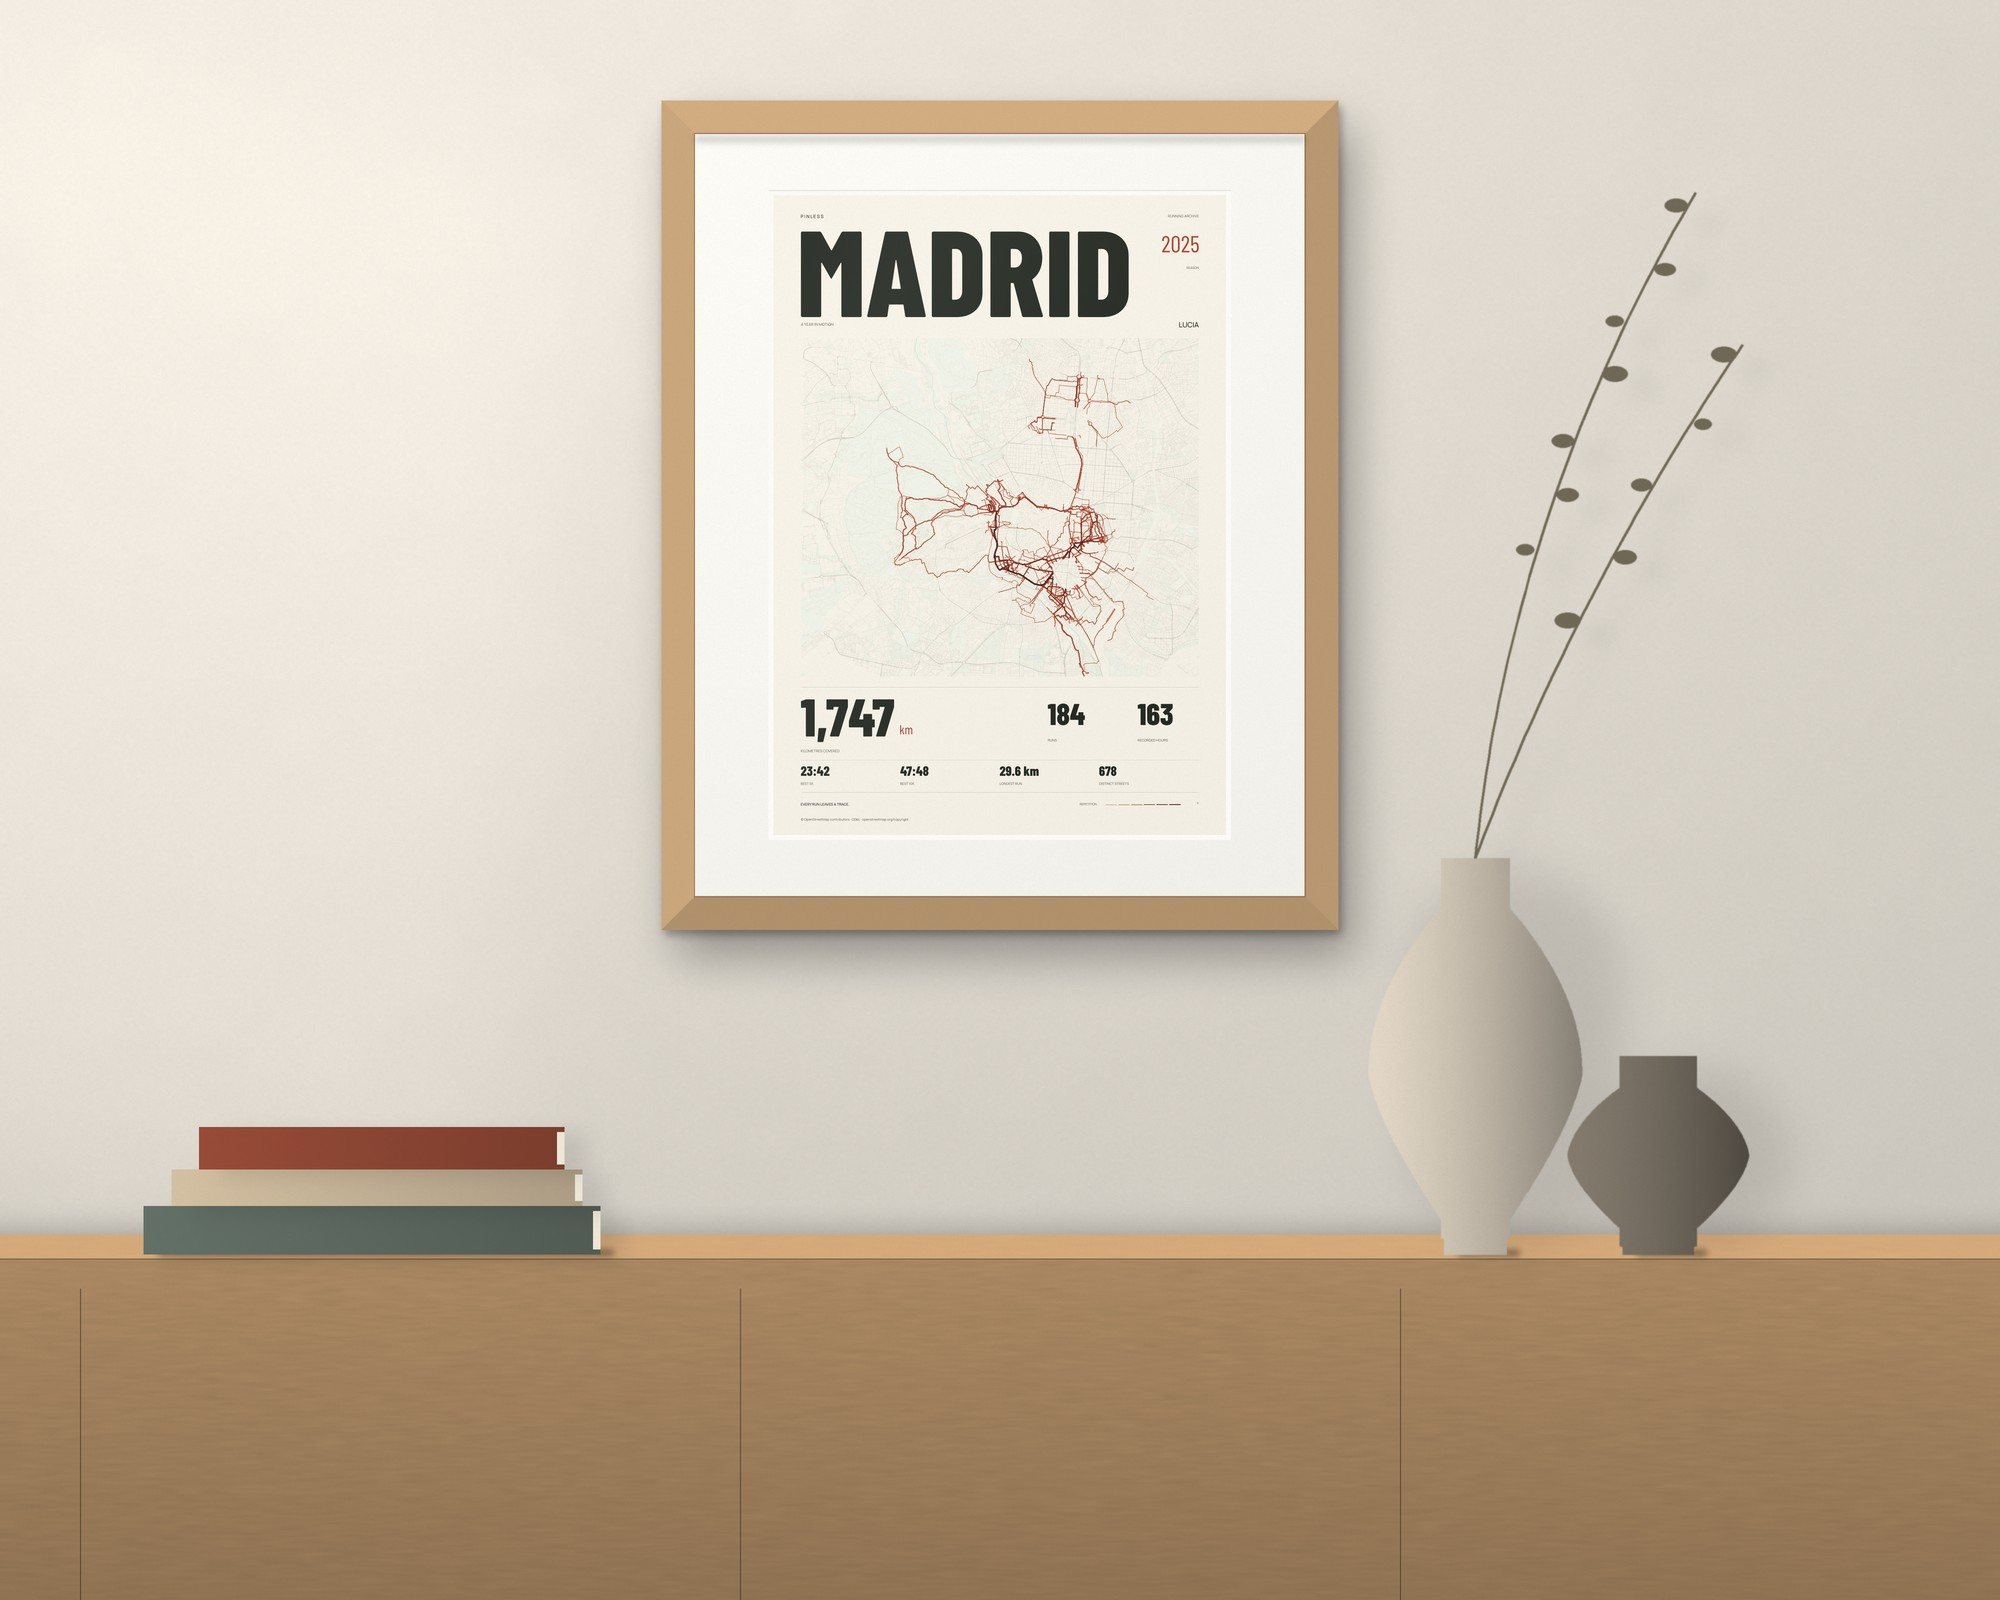
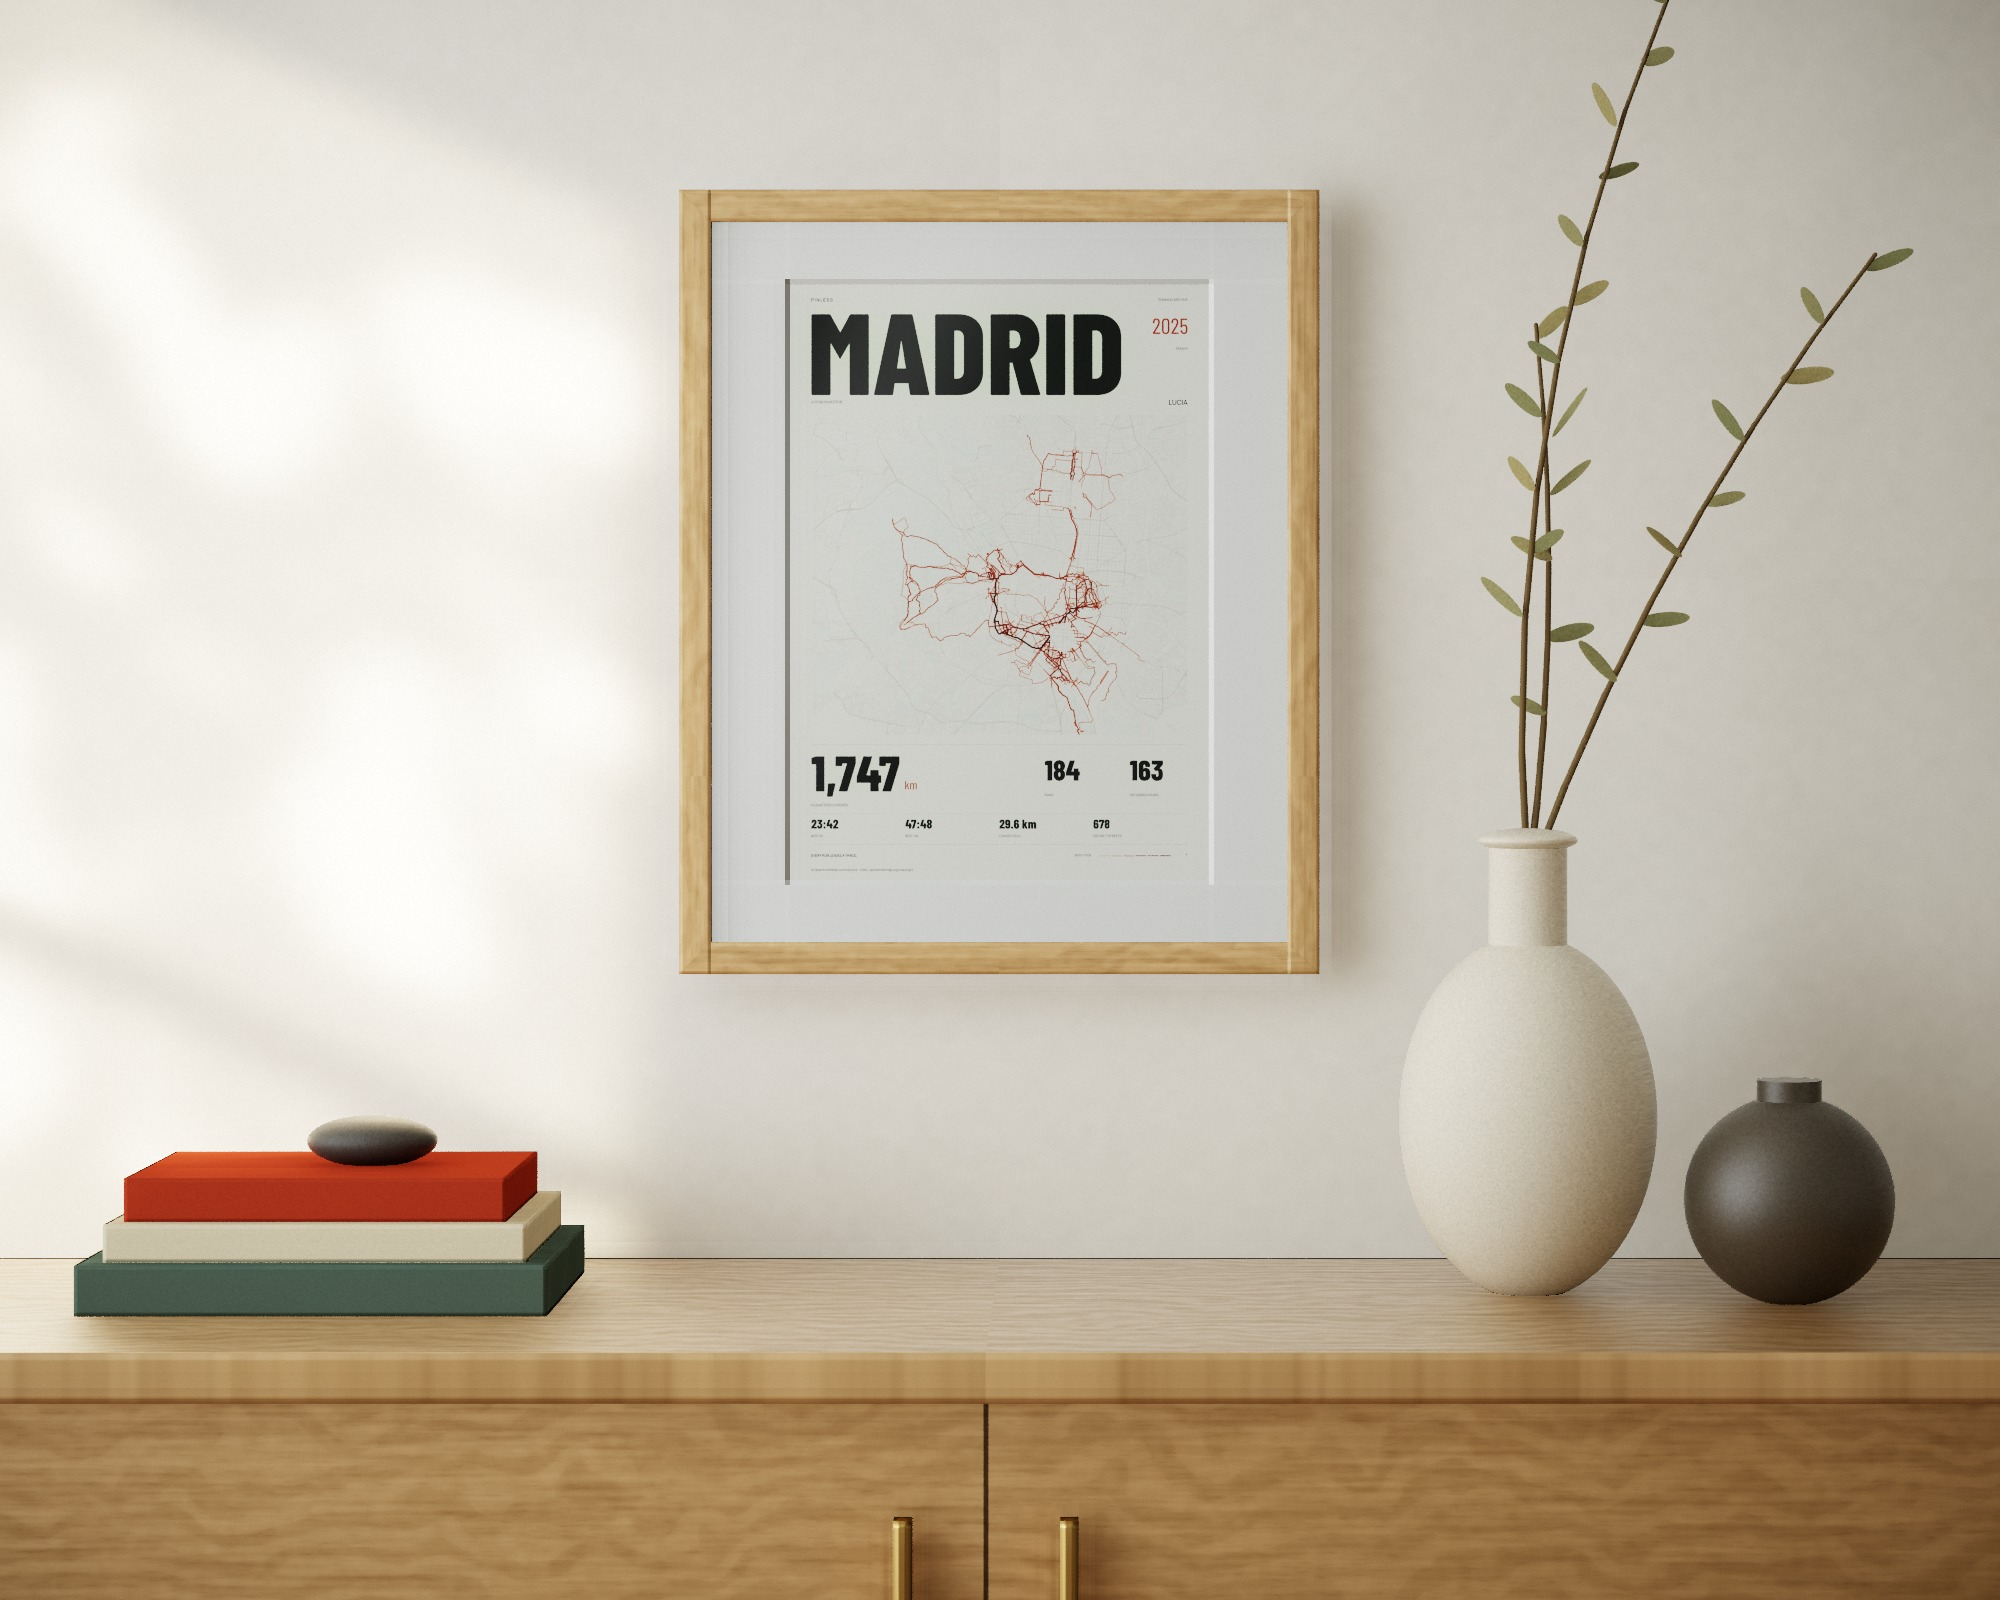
README: the trail prints redrawn, the walls rendered in a modelled room, a white frame
The five trail prints redrawn with the round halos, the summits named where they hide no other, the Tre Cime without its false glacier, Madeira with its relief and contours, and the Alps demo past the Lacs des Cheserys in the dark midnight style. Every wall mockup is rendered again with tools/mockup.py, in the same room: Madrid, the atlas and the poster for two in oak, the carbon poster and the race print in black, and in the trail section Penalara in oak beside Lac Blanc in a white frame. The captions say they are renders, not photographs.

diff --git a/README.md b/README.md
@@ -3,10 +3,10 @@
 **Your year of running as a print-ready poster of your city. From your Strava export, on your own computer, without showing where you live.**
 
 <p align="center">
-  <img src="docs/wall-huella.jpg" width="49%" alt="The warm paper poster of a year of runs in Madrid, framed in oak and hung above a sideboard">
+  <img src="docs/wall-huella.jpg" width="49%" alt="The warm paper poster of a year of runs in Madrid, framed in oak on a wall above an oak sideboard, books and two stoneware vases, in the dappled light of a window">
   <img src="docs/wall-carbon.jpg" width="49%" alt="The same poster in the dark carbon style, in a black frame">
 </p>
-<p align="center"><sub>A3 prints in standard 40x50 cm frames, drawn to scale (<code>tools/mockup.py</code>). Demo posters made from a synthetic runner (<code>tools/simulate_runner.py</code>), not from a real person.</sub></p>
+<p align="center"><sub>A3 prints in standard 40x50 cm frames, rendered to scale in a modelled room lit by a window (<code>tools/mockup.py</code>, a small path tracer), not photographs. Demo posters made from a synthetic runner (<code>tools/simulate_runner.py</code>), not from a real person.</sub></p>
 
 ```bash
 pip install https://github.com/Lostmanu/pinless/archive/refs/heads/main.zip
@@ -76,7 +76,7 @@ The line weight always grows with how often you ran a street; `--color-by` decid
 
 <p align="center">
   <img src="docs/atlas-huella.jpg" width="40%" alt="Atlas of six cities run in one year: Madrid, Lisbon, Paris, Rome, Valencia and Zurich">
-  <img src="docs/wall-atlas.jpg" width="58%" alt="The atlas framed in oak and hung above a sideboard">
+  <img src="docs/wall-atlas.jpg" width="58%" alt="The atlas framed in oak on a wall above an oak sideboard">
 </p>
 <p align="center"><sub>Demo atlas from the synthetic runner with trips (<code>tools/simulate_trips.py</code>); try it with <code>pinless demo/strava_export_atlas_demo.zip --layout atlas</code>.</sub></p>
 
@@ -90,7 +90,7 @@ One small map per city on the same print: the city where you ran most comes firs
 
 <p align="center">
   <img src="docs/race.jpg" width="40%" alt="Finisher print of a half marathon in Madrid with its elevation profile, time, pace and kilometre splits">
-  <img src="docs/wall-race.jpg" width="58%" alt="The race print in a black frame hung above a sideboard">
+  <img src="docs/wall-race.jpg" width="58%" alt="The race print in a black frame on a wall above an oak sideboard">
 </p>
 
 ```bash
@@ -106,16 +106,17 @@ A run that starts or ends at one of your private places (a long run from home) i
 <p align="center">
   <img src="docs/trail.jpg" width="32%" alt="Trail print of a loop over Penalara in the Sierra de Guadarrama: green pine woods and meadows, the granite ridge in stone grey, terrain relief baked into the colours, contour lines, paths, named summits, the elevation profile and the route numbers">
   <img src="docs/trail-desert.jpg" width="32%" alt="Trail print of a walk in the Desierto de Tabernas: the badlands etched in desert orange with burnt brown shadows, the steppe in straw, contour lines, paths, the elevation profile and the route numbers">
-  <img src="docs/trail-dolomites.jpg" width="32%" alt="Trail print of the loop round the Tre Cime di Lavaredo in the Dolomites: green meadows, pale dolomite rock and scree, small lakes, the route in deep red on cream paper, the six named summits, the elevation profile and the route numbers">
+  <img src="docs/trail-dolomites.jpg" width="32%" alt="Trail print of the loop round the Tre Cime di Lavaredo in the Dolomites: green meadows, pale dolomite rock and scree, small lakes, the route in deep red on cream paper, the three Cime and their neighbours named, the elevation profile and the route numbers">
 </p>
 <p align="center">
-  <img src="docs/trail-alps.jpg" width="32%" alt="Trail print in the ocean style of the walk from La Flegere up to Lac Blanc above Chamonix: meadows, grey rock and white snow patches under the Aiguilles Crochues, the lakes in pale blue, the route in deep blue, the elevation profile and the route numbers">
-  <img src="docs/trail-coast.jpg" width="32%" alt="Trail print in the ocean style of the Ponta de Sao Lourenco on Madeira: the long green peninsula between two seas, the route in deep blue out to the Casa do Sardinha and back, the elevation profile and the route numbers">
+  <img src="docs/trail-alps.jpg" width="32%" alt="Trail print in the dark midnight style of the walk from La Flegere up to Lac Blanc above Chamonix and on past the Lacs des Cheserys down to the Col des Montets: dark green woods and meadows, grey rock under the named peaks of the Aiguilles Rouges, the Arve valley, the route in bright blue, the elevation profile and the route numbers">
+  <img src="docs/trail-coast.jpg" width="32%" alt="Trail print in the ocean style of the Ponta de Sao Lourenco on Madeira: the long green peninsula between two seas with its cliffs in relief and contour lines, the route in deep blue out to the Casa do Sardinha and back, the elevation profile and the route numbers">
 </p>
 <p align="center">
-  <img src="docs/wall-trail.jpg" width="80%" alt="The Penalara trail print in an oak frame hung above a sideboard">
+  <img src="docs/wall-trail.jpg" width="49%" alt="The Penalara trail print in an oak frame on a wall above an oak sideboard, in the dappled light of a window">
+  <img src="docs/wall-trail-white.jpg" width="49%" alt="The Lac Blanc trail print in the dark midnight style, in a white frame on the same wall">
 </p>
-<p align="center"><sub>Demo routes: synthetic hikes on real OpenStreetMap paths, with heights from the Copernicus elevation model (<code>tools/simulate_hike.py</code>), not a real person's walks. Peñalara and Tabernas in Spain and the Tre Cime di Lavaredo in the Dolomites in the default style; Lac Blanc above Chamonix and the Ponta de São Lourenço on Madeira in the ocean style.</sub></p>
+<p align="center"><sub>Demo routes: synthetic hikes on real OpenStreetMap paths, with heights from the Copernicus elevation model (<code>tools/simulate_hike.py</code>), not a real person's walks. Peñalara and Tabernas in Spain and the Tre Cime di Lavaredo in the Dolomites in the default style, Lac Blanc above Chamonix in the midnight style and the Ponta de São Lourenço on Madeira in the ocean style. Peñalara framed in oak and Lac Blanc in white, rendered to scale in a modelled room (<code>tools/mockup.py</code>), not photographs.</sub></p>
 
 Try the demo routes:
 
@@ -123,7 +124,7 @@ Try the demo routes:
 pinless demo/hike_demo.gpx --layout trail --title "Peñalara"
 pinless demo/hike_desert_demo.gpx --layout trail --title "Tabernas"
 pinless demo/hike_dolomites_demo.gpx --layout trail --title "Tre Cime di Lavaredo"
-pinless demo/hike_alps_demo.gpx --layout trail --title "Lac Blanc" --style ocean
+pinless demo/hike_alps_demo.gpx --layout trail --title "Lac Blanc" --style midnight
 pinless demo/hike_coast_demo.gpx --layout trail --title "Ponta de São Lourenço" --style ocean
 ```
 
@@ -146,7 +147,7 @@ The privacy rules are the race print's, with your private places learned from ev
 
 <p align="center">
   <img src="docs/couple-huella.jpg" width="40%" alt="Poster of two runners' year in Madrid: Lucia's streets in red, Marcos's in blue, the streets they share in black">
-  <img src="docs/wall-couple.jpg" width="58%" alt="The poster for two framed in oak and hung above a sideboard">
+  <img src="docs/wall-couple.jpg" width="58%" alt="The poster for two framed in oak on a wall above an oak sideboard">
 </p>
 <p align="center"><sub>Demo poster from two synthetic runners (<code>tools/simulate_runner.py</code>); try it with <code>pinless demo/strava_export_madrid_demo.zip --with demo/strava_export_madrid_partner_demo.zip --name Lucia --with-name Marcos</code>.</sub></p>
 
